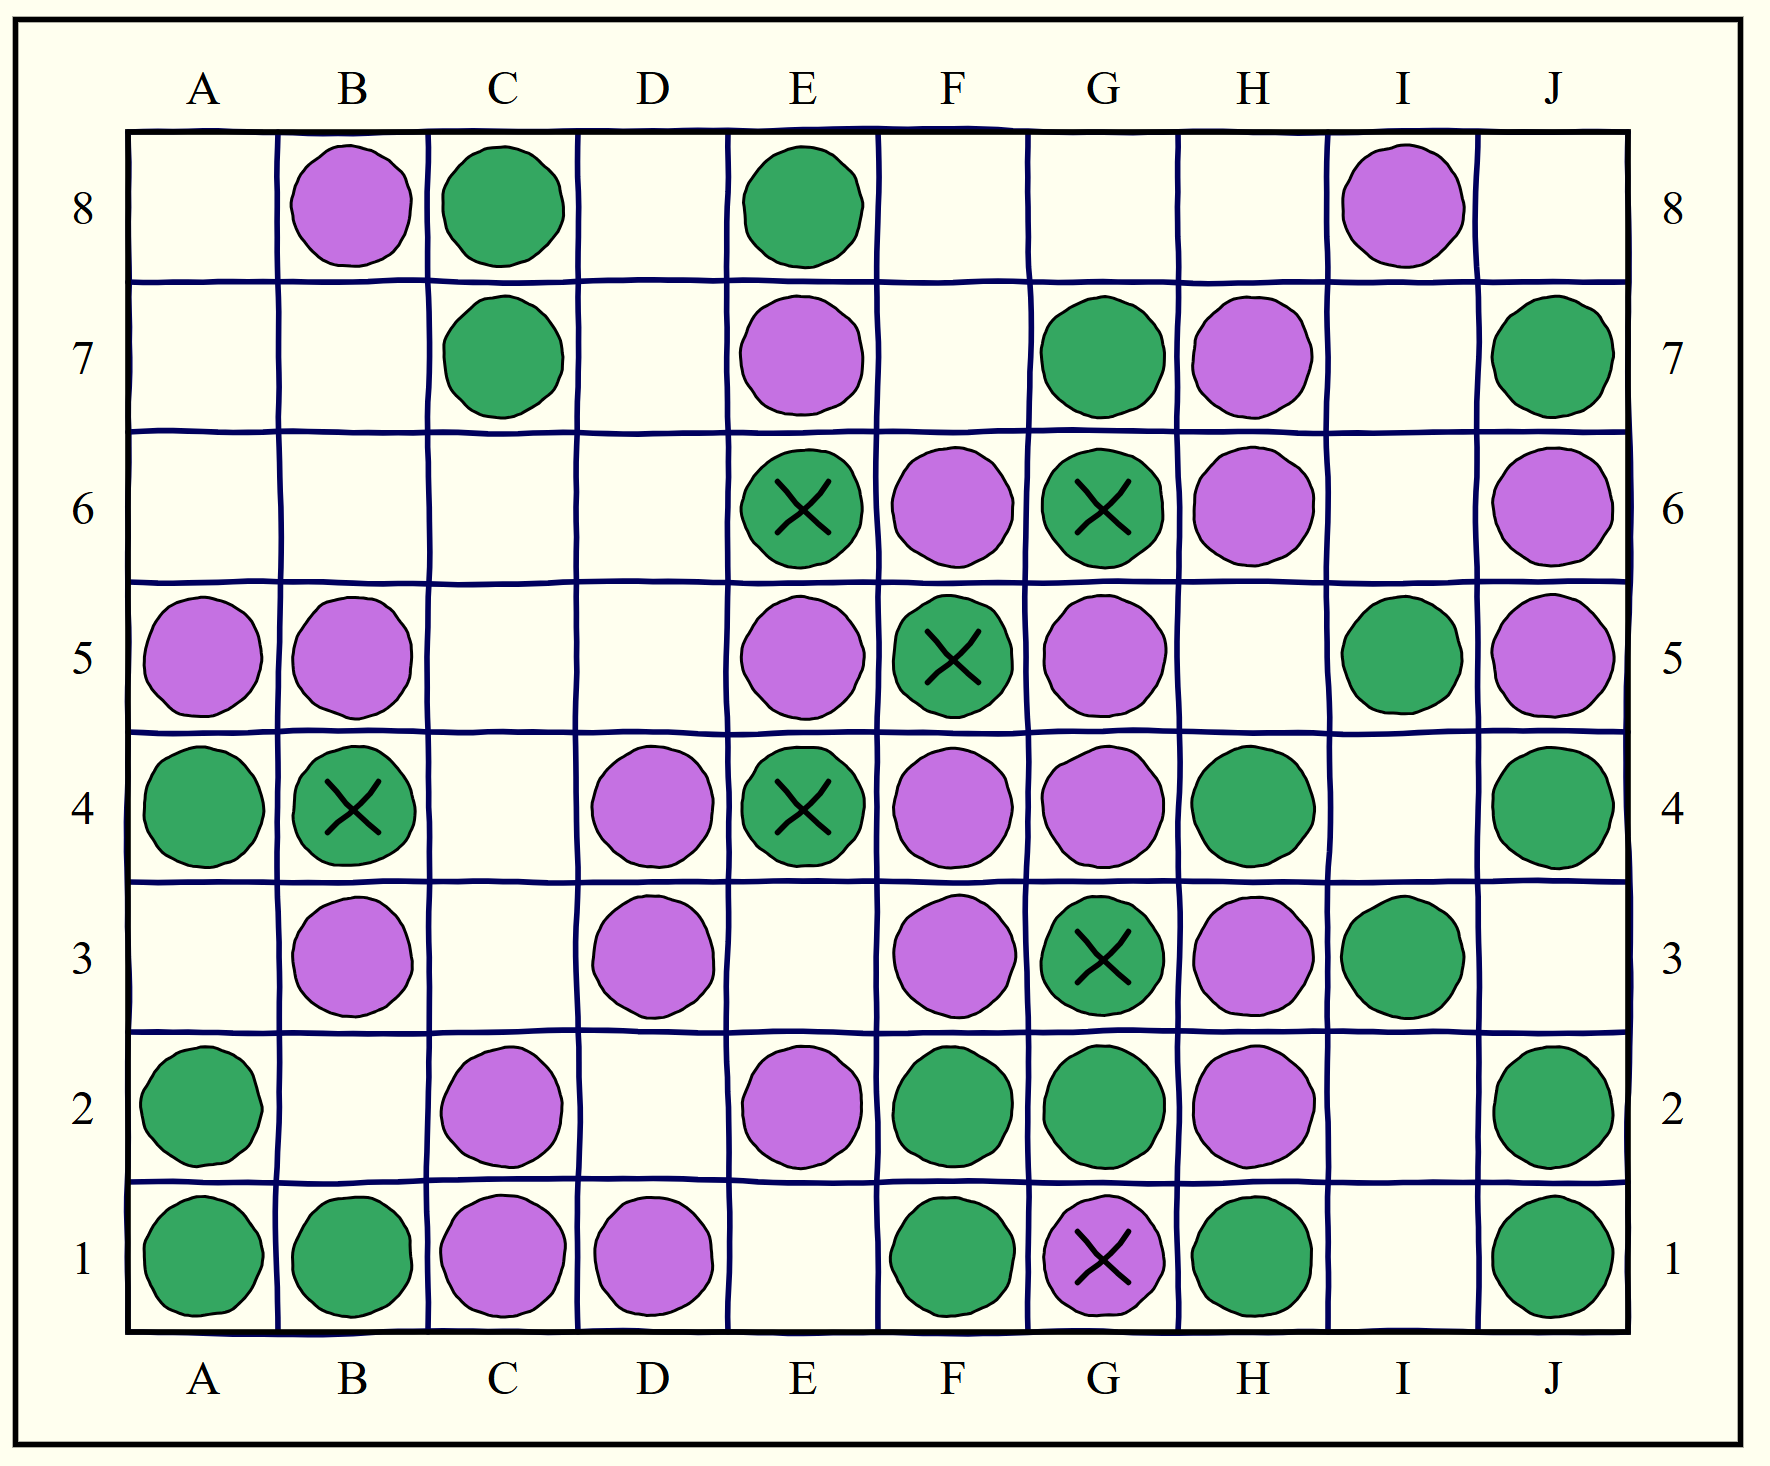
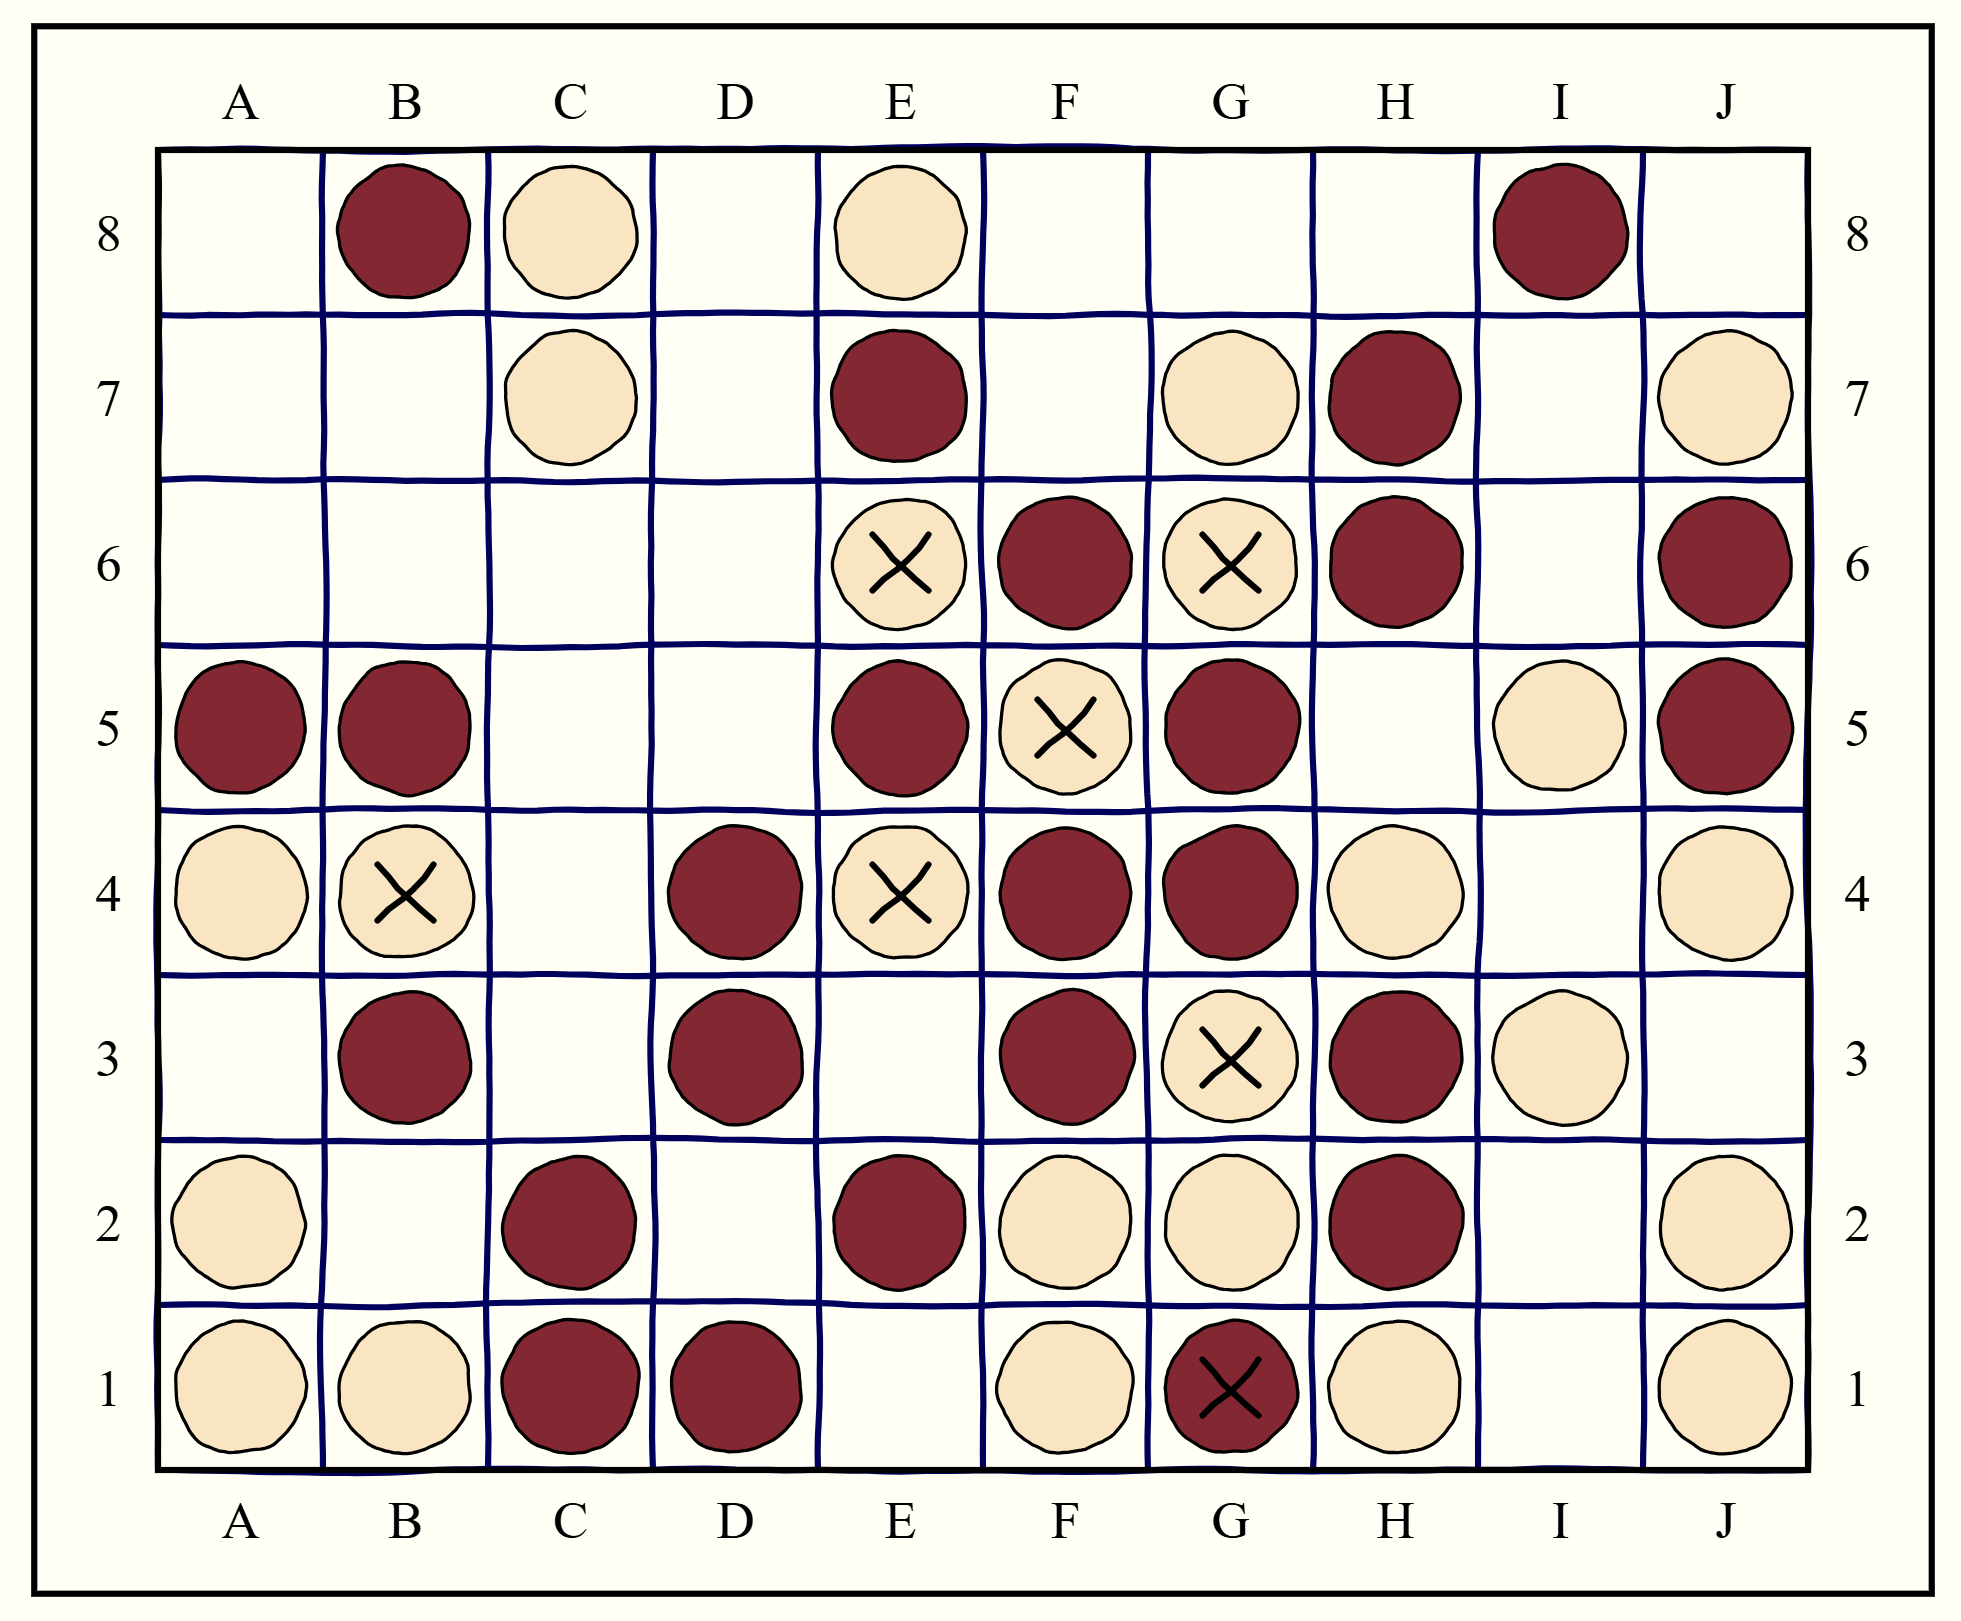
more Roman-ish colors

diff --git a/irrgo/irregular_grids/irregular_grid.cpp b/irrgo/irregular_grids/irregular_grid.cpp
@@ -351,7 +351,7 @@ std::vector<Polyline> build_x_template(double length, double roughness, double s
     return lines;
 }
 
-// The colour index occupying square (column, row), or -1 if empty or off-board.
+// The color index occupying square (column, row), or -1 if empty or off-board.
 int occupant_at(const std::vector<int>& occupant, int columns, int rows,
                 int column, int row) {
     if (column < 0 || column >= columns || row < 0 || row >= rows) {
@@ -361,7 +361,7 @@ int occupant_at(const std::vector<int>& occupant, int columns, int rows,
 }
 
 // True if (column, row) holds an enemy of `me` that can still pin it: occupied,
-// a different colour, AND not itself already marked immobilised. A disc that has
+// a different color, AND not itself already marked immobilised. A disc that has
 // already been marked "X" no longer immobilises its neighbours.
 bool active_enemy(const std::vector<int>& occupant, const std::vector<bool>& marked,
                   int columns, int rows, int column, int row, int me) {
@@ -372,7 +372,7 @@ bool active_enemy(const std::vector<int>& occupant, const std::vector<bool>& mar
     return !marked[static_cast<std::size_t>(row * columns + column)];
 }
 
-// Latrunculi immobilisation of the piece of colour `me` on square (column, row):
+// Latrunculi immobilisation of the piece of color `me` on square (column, row):
 //   - bracketed: squeezed between two enemy pieces on opposite sides, either
 //     left/right or top/bottom; or
 //   - corner: the piece is at a board corner and its two in-board orthogonal
@@ -548,7 +548,7 @@ std::string generate_board_svg(const BoardSpec& board, const RenderConfig& confi
     }
 
     // Two independent engines: the board engine (board.seed) fixes the layout --
-    // which squares are occupied by which colour -- while the render engine
+    // which squares are occupied by which color -- while the render engine
     // (config.seed) drives all the hand-scratched noise (disc shapes, the X). The
     // two seeds can be varied independently, both from main.cpp.
     printf("Render seed: %llu, Board seed: %llu\n", // same order as main.cpp
@@ -591,7 +591,7 @@ std::string generate_board_svg(const BoardSpec& board, const RenderConfig& confi
               kBlackInk, grid_stroke);
 
     // Each disc is generated separately (its own noise) and placed at the centre
-    // of its randomly chosen square. squares[] holds the colour assignment order:
+    // of its randomly chosen square. squares[] holds the color assignment order:
     // the first set's discs take the first slots, the next set the following, etc.
     std::vector<Point> disc_centers;
     std::vector<int> disc_square;
@@ -599,7 +599,7 @@ std::string generate_board_svg(const BoardSpec& board, const RenderConfig& confi
     disc_centers.reserve(static_cast<std::size_t>(requested));
     disc_square.reserve(static_cast<std::size_t>(requested));
     disc_color.reserve(static_cast<std::size_t>(requested));
-    // Board occupancy by colour index (-1 == empty), for the immobilisation test.
+    // Board occupancy by color index (-1 == empty), for the immobilisation test.
     std::vector<int> occupant(static_cast<std::size_t>(square_count), -1);
 
     std::size_t slot = 0;

diff --git a/irrgo/irregular_grids/irregular_grid.h b/irrgo/irregular_grids/irregular_grid.h
@@ -130,14 +130,14 @@ std::string generate_disc_svg(const DiscSpec& spec,
                               const RenderConfig& config = {},
                               const SvgStyle& style = {});
 
-// One colour of piece and how many to place on the board.
+// One color of piece and how many to place on the board.
 struct PieceSet {
-    std::string fill;   // disc fill colour, e.g. "#2aa85a"
-    int count;          // number of discs of this colour (>= 0)
+    std::string fill;   // disc fill color, e.g. "#2aa85a"
+    int count;          // number of discs of this color (>= 0)
 };
 
 // A populated board: the grid, the disc shape shared by every piece, and the
-// coloured piece sets to scatter across the squares. Each disc is generated
+// colored piece sets to scatter across the squares. Each disc is generated
 // separately (independent noise) and placed in the centre of a distinct,
 // randomly chosen square; no square receives two discs. Every disc carries a
 // thin outline. To fit one disc per 1x1 cell, disc.radius must be <= 0.5.

diff --git a/irrgo/irregular_grids/draw_params.h b/irrgo/irregular_grids/draw_params.h
@@ -50,13 +50,13 @@ struct SvgStyle {
 // canonical source for the look of the output; the struct defaults above are kept
 // consistent with them and serve the convenience `= {}` overloads.
 
-// Fill colours for the two opposing sides.
+// Fill colors for the two opposing sides.
 struct PieceColors {
     //std::string side_a = "#2aa85a";  // pastel green
     //std::string side_b = "#c76fe8";  // purplish
 
     std::string side_a = "#FAE5BE"; // pale beige
-    std::string side_b = "#852532";  // brick-red
+    std::string side_b = "#852532"; // brick-red
 };
 
 // Pixel scale, sampling and RNG seed.
@@ -71,7 +71,7 @@ DiscSpec board_disc_spec();
 // The large disc used for the standalone disc.svg demo.
 DiscSpec standalone_disc_spec();
 
-// The two side colours.
+// The two side colors.
 PieceColors piece_colors();
 
 // Sets every drawing-related field of `board` (disc shape, piece outline, outer

diff --git a/irrgo/irregular_grids/draw_params.cpp b/irrgo/irregular_grids/draw_params.cpp
@@ -21,7 +21,7 @@ RenderConfig default_render_config() {
 }
 
 SvgStyle default_svg_style() {
-    // Struct defaults already hold colours, strokes, margins and label sizing.
+    // Struct defaults already hold colors, strokes, margins and label sizing.
     return SvgStyle{};
 }
 
